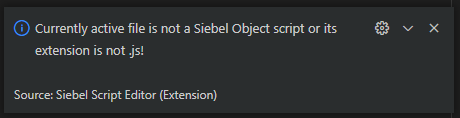
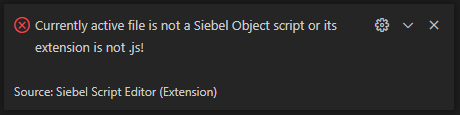
fix for checkpointed objects

diff --git a/src/getData.js b/src/getData.js
@@ -123,7 +123,21 @@ const getSiebelData = async (params, databaseConf, type, folder) => {
 	const bindedValues = { repo: params.repo, datestr: params.date || "1800-01-01" };
 	let queryStringSB = `SELECT ROW_ID, NAME FROM SIEBEL.${tablesAndIdColumns[type].table} WHERE CREATED > TO_DATE(:datestr, 'yyyy-mm-dd') AND REPOSITORY_ID=:repo`;
 	if (databaseConf.workspaces === WS_ENABLED) {
-		queryStringSB += ` AND WS_ID=:ws`;
+		queryStringSB = `WITH MAXVERSION
+										AS ( SELECT MAX (SC.WS_OBJ_VER) AS MAXVERSIONNR,
+										SC.WS_SRC_ID AS MAX_WS_SRC_ID
+										FROM SIEBEL.${tablesAndIdColumns[type].scriptTable} SC
+										GROUP BY SC.WS_SRC_ID)
+										SELECT OBJECT.ROW_ID, OBJECT.NAME
+										FROM MAXVERSION, SIEBEL.${tablesAndIdColumns[type].scriptTable} SRVSCRIPT, SIEBEL.${tablesAndIdColumns[type].table} OBJECT
+										WHERE SRVSCRIPT.WS_OBJ_VER=MAXVERSION.MAXVERSIONNR
+										AND SRVSCRIPT.WS_SRC_ID=MAXVERSION.MAX_WS_SRC_ID
+										AND SRVSCRIPT.${tablesAndIdColumns[type].idColumn}=OBJECT.ROW_ID
+										AND OBJECT.WS_ID=:ws
+										AND OBJECT.REPOSITORY_ID=:repo
+										AND OBJECT.CREATED > TO_DATE(:datestr, 'yyyy-mm-dd')
+										${params.scr ? `AND OBJECT.ROW_ID IN (SELECT ${tablesAndIdColumns[type].idColumn} FROM SIEBEL.${tablesAndIdColumns[type].scriptTable} WHERE SCRIPT IS NOT NULL)` : ""}
+										GROUP BY OBJECT.ROW_ID, OBJECT.NAME`
 		bindedValues.ws = params.ws;
 	} else if (databaseConf.workspaces === WS_NOT_IN_USE) {
 		queryStringSB += ` AND WS_ID IS NULL`;
@@ -132,10 +146,9 @@ const getSiebelData = async (params, databaseConf, type, folder) => {
 		queryStringSB += ` AND OBJ_LOCKED_BY=:userid`;
 		bindedValues.userid = databaseConf.safeModeUser;
 	}
-	if (params.scr === true) {
+	if (params.scr === true && databaseConf.workspaces !== WS_ENABLED) {
 		queryStringSB += ` AND ROW_ID IN (SELECT ${tablesAndIdColumns[type].idColumn} FROM SIEBEL.${tablesAndIdColumns[type].scriptTable} WHERE SCRIPT IS NOT NULL)`;
 	}
-
 	const bsdata = await dbQuery(queryStringSB, databaseConf, bindedValues);
 	bsdata && bsdata.rows && bsdata.rows.forEach((row) => {
 		exists = fs.existsSync(`${wsPath}/${folder}/${type}/${row.NAME}`);
@@ -154,11 +167,22 @@ const getSiebelData = async (params, databaseConf, type, folder) => {
 //get all scripts for siebel object
 const getServerScripts = async (params, databaseConf, type) => {
 	const scriptobj = {};
-	const bindedValues = { repo: params.repo, parentid: params[type].id };
+	let bindedValues = { repo: params.repo, parentid: params[type].id };
 	let queryStringSC = `SELECT ROW_ID, NAME, SCRIPT FROM SIEBEL.${tablesAndIdColumns[type].scriptTable} WHERE REPOSITORY_ID=:repo AND ${tablesAndIdColumns[type].idColumn}=:parentid`;
 	if (databaseConf.workspaces === WS_ENABLED) {
-		queryStringSC += ` AND WS_ID=:ws`;
-		bindedValues.ws = params.ws;
+		queryStringSC = `WITH MAXVERSION
+										AS ( SELECT MAX (SC.WS_OBJ_VER) AS MAXVERSIONNR,
+										SC.WS_SRC_ID AS MAX_WS_SRC_ID
+										FROM SIEBEL.${tablesAndIdColumns[type].scriptTable} SC
+										GROUP BY SC.WS_SRC_ID)
+										SELECT SRVSCRIPT.ROW_ID, SRVSCRIPT.NAME, SRVSCRIPT.SCRIPT
+										FROM MAXVERSION, SIEBEL.${tablesAndIdColumns[type].scriptTable} SRVSCRIPT, SIEBEL.${tablesAndIdColumns[type].table} OBJECT
+										WHERE SRVSCRIPT.WS_OBJ_VER=MAXVERSION.MAXVERSIONNR
+										AND SRVSCRIPT.WS_SRC_ID=MAXVERSION.MAX_WS_SRC_ID
+										AND SRVSCRIPT.${tablesAndIdColumns[type].idColumn}=OBJECT.ROW_ID
+										AND OBJECT.WS_ID=:ws
+										AND OBJECT.REPOSITORY_ID=:repo`
+		bindedValues = { repo: params.repo, ws: params.ws };
 	} else if (databaseConf.workspaces === WS_NOT_IN_USE) {
 		queryStringSC += ` AND WS_ID IS NULL`;
 	}
@@ -172,15 +196,27 @@ const getServerScriptsNames = async (params, databaseConf, type, folderObj) => {
 	const wsPath = vscode.workspace.workspaceFolders[0].uri.fsPath;
 	const folderPath = `${folderObj.db}_${folderObj.repo}/${folderObj.ws}/${type}`;
 	const scriptobj = {};
-	const bindedValues = { repo: params.repo, parentid: params[type].id };
+	let bindedValues = { repo: params.repo, parentid: params[type].id };
 	let queryStringSC = `SELECT ROW_ID, NAME FROM SIEBEL.${tablesAndIdColumns[type].scriptTable} WHERE REPOSITORY_ID=:repo AND ${tablesAndIdColumns[type].idColumn}=:parentid`;
 	if (databaseConf.workspaces === WS_ENABLED) {
-		queryStringSC += ` AND WS_ID=:ws`;
-		bindedValues.ws = params.ws;
+		queryStringSC = `WITH MAXVERSION
+										AS ( SELECT MAX (SC.WS_OBJ_VER) AS MAXVERSIONNR,
+										SC.WS_SRC_ID AS MAX_WS_SRC_ID
+										FROM SIEBEL.${tablesAndIdColumns[type].scriptTable} SC
+										GROUP BY SC.WS_SRC_ID)
+										SELECT SRVSCRIPT.ROW_ID, SRVSCRIPT.NAME
+										FROM MAXVERSION, SIEBEL.${tablesAndIdColumns[type].scriptTable} SRVSCRIPT, SIEBEL.${tablesAndIdColumns[type].table} OBJECT
+										WHERE SRVSCRIPT.WS_OBJ_VER=MAXVERSION.MAXVERSIONNR
+										AND SRVSCRIPT.WS_SRC_ID=MAXVERSION.MAX_WS_SRC_ID
+										AND SRVSCRIPT.${tablesAndIdColumns[type].idColumn}=OBJECT.ROW_ID
+										AND OBJECT.WS_ID=:ws
+										AND OBJECT.REPOSITORY_ID=:repo`
+		bindedValues = { repo: params.repo, ws: params.ws };
 	} else if (databaseConf.workspaces === WS_NOT_IN_USE) {
 		queryStringSC += ` AND WS_ID IS NULL`;
 	}
 	const scdata = await dbQuery(queryStringSC, databaseConf, bindedValues);
+	console.log(scdata)
 	scdata && scdata.rows && scdata.rows.forEach((row) => {
 		scriptobj[row.NAME] = {
 			id: row.ROW_ID,
@@ -192,7 +228,7 @@ const getServerScriptsNames = async (params, databaseConf, type, folderObj) => {
 
 //get selected method for siebel object
 const getServerScriptMethod = async (params, databaseConf, type) => {
-	const bindedValues = { repo: params.repo, parentid: params[type].id, methodid: params[type].childId };
+	let bindedValues = { repo: params.repo, parentid: params[type].id, methodid: params[type].childId };
 	let queryStringSC = `SELECT SCRIPT FROM SIEBEL.${tablesAndIdColumns[type].scriptTable} WHERE REPOSITORY_ID=:repo AND ${tablesAndIdColumns[type].idColumn}=:parentid AND ROW_ID=:methodid`;
 	if (databaseConf.workspaces === WS_ENABLED) {
 		queryStringSC += ` AND WS_ID=:ws`;
@@ -227,31 +263,40 @@ const createBackup = async (params, databaseConf, type, backupFolder) => {
 const pushOrPullScript = async (action, databaseObj) => {
 	let currentlyOpenTabfilePath = vscode.window.activeTextEditor?.document.uri.fsPath;
 	if (path.basename(currentlyOpenTabfilePath).endsWith(".js") === false) {
-		vscode.window.showInformationMessage("Currently active file is not a Siebel Object script or its extension is not .js!");
+		vscode.window.showErrorMessage("Currently active file is not a Siebel Object script or its extension is not .js!");
 		return;
 	}
 	let scrName = path.basename(currentlyOpenTabfilePath, ".js");
 	let dirPath = path.dirname(currentlyOpenTabfilePath);
 	let infoFilePath = vscode.Uri.file(`${dirPath}/info.json`);
 	if (fs.existsSync(infoFilePath.fsPath) === false) {
-		vscode.window.showInformationMessage("File info.json was not found, please get the Siebel Object again from the extension!");
+		vscode.window.showErrorMessage("File info.json was not found, please get the Siebel Object again from the extension!");
 		return;
 	}
 	let readData = await vscode.workspace.fs.readFile(infoFilePath);
 	let scrFilePath = vscode.Uri.file(`${dirPath}/${scrName}.js`);
 	let infoObj = JSON.parse(Buffer.from(readData));
 	if (infoObj.scripts.hasOwnProperty(scrName) === false) {
-		vscode.window.showInformationMessage("Script was not found in info.json, please get the Siebel Object script again from the extension or check for accidental renaming!");
+		vscode.window.showErrorMessage("Script was not found in info.json, please get the Siebel Object script again from the extension or check for accidental renaming!");
 		return;
 	}
 	switch (action) {
 		case "pull": {
-			const bindedValues = { repo: infoObj.repo.id, parentid: infoObj.siebelObject.id, methodid: infoObj.scripts[scrName].id };
-			let queryStringSC = `SELECT SCRIPT FROM SIEBEL.${tablesAndIdColumns[infoObj.type].scriptTable} WHERE REPOSITORY_ID=:repo AND ${tablesAndIdColumns[infoObj.type].idColumn}=:parentid AND ROW_ID=:methodid`;
+			const bindedValues = { repo: infoObj.repo.id, methodid: infoObj.scripts[scrName].id };
+			let queryStringSC = `SELECT SCRIPT FROM SIEBEL.${tablesAndIdColumns[infoObj.type].scriptTable} WHERE REPOSITORY_ID=:repo AND ROW_ID=:methodid`;
 			if (databaseObj[infoObj.db].workspaces === WS_ENABLED) {
-				queryStringSC += ` AND WS_ID=:ws`;
-				bindedValues.ws = infoObj.ws.id;
-			} else if (databaseObj[infoObj.db].workspaces === WS_NOT_IN_USE) {
+				const getWSSourceIdString = `SELECT WS_SRC_ID FROM SIEBEL.${tablesAndIdColumns[infoObj.type].scriptTable} WHERE ROW_ID=:methodid`;
+				const methodidobj = { methodid: infoObj.scripts[scrName].id };
+				const getWSSourceId = await dbQuery(getWSSourceIdString, databaseObj[infoObj.db], methodidobj);
+				const wssrcidobj = { wssrcid: getWSSourceId.rows[0]?.WS_SRC_ID };
+				const checkWSVersionString = `SELECT ROW_ID FROM SIEBEL.${tablesAndIdColumns[infoObj.type].scriptTable} WHERE WS_SRC_ID=:wssrcid ORDER BY WS_OBJ_VER DESC`;
+				const checkWSVersion = await dbQuery(checkWSVersionString, databaseObj[infoObj.db], wssrcidobj);
+				if (checkWSVersion.rows[0]?.ROW_ID !== infoObj.scripts[scrName].id) {
+					bindedValues.methodid = checkWSVersion.rows[0]?.ROW_ID;
+					infoObj.scripts[scrName]["id"] = checkWSVersion.rows[0]?.ROW_ID;
+				}
+			}
+			if (databaseObj[infoObj.db].workspaces === WS_NOT_IN_USE) {
 				queryStringSC += ` AND WS_ID IS NULL`
 			}
 			const scdata = await dbQuery(queryStringSC, databaseObj[infoObj.db], bindedValues);
@@ -274,11 +319,23 @@ const pushOrPullScript = async (action, databaseObj) => {
 					return;
 				}
 			}
+			if (databaseObj[infoObj.db].workspaces === WS_ENABLED) {
+				const getWSSourceIdString = `SELECT WS_SRC_ID FROM SIEBEL.${tablesAndIdColumns[infoObj.type].scriptTable} WHERE ROW_ID=:methodid`;
+				const methodidobj = { methodid: infoObj.scripts[scrName].id };
+				const getWSSourceId = await dbQuery(getWSSourceIdString, databaseObj[infoObj.db], methodidobj);
+				const wssrcidobj = { wssrcid: getWSSourceId.rows[0]?.WS_SRC_ID };
+				const checkWSVersionString = `SELECT ROW_ID FROM SIEBEL.${tablesAndIdColumns[infoObj.type].scriptTable} WHERE WS_SRC_ID=:wssrcid ORDER BY WS_OBJ_VER DESC`;
+				const checkWSVersion = await dbQuery(checkWSVersionString, databaseObj[infoObj.db], wssrcidobj);
+				if (checkWSVersion.rows[0]?.ROW_ID !== infoObj.scripts[scrName].id) {
+					vscode.window.showErrorMessage("Unable to push script to database, because workspace has been checkpointed and there is a newer version of this script in the database, please refresh it with the pull button!");
+					return;
+				}
+			}
 			const commit = true;
 			const scrDataRead = await vscode.workspace.fs.readFile(scrFilePath);
 			const scrText = Buffer.from(scrDataRead).toString();
-			const bindedValues = { repo: infoObj.repo.id, parentid: infoObj.siebelObject.id, methodid: infoObj.scripts[scrName].id, script: scrText };
-			let updateStringSC = `UPDATE SIEBEL.${tablesAndIdColumns[infoObj.type].scriptTable} SET SCRIPT=:script, LAST_UPD=CURRENT_TIMESTAMP WHERE REPOSITORY_ID=:repo AND ${tablesAndIdColumns[infoObj.type].idColumn}=:parentid AND ROW_ID=:methodid`;
+			const bindedValues = { repo: infoObj.repo.id, methodid: infoObj.scripts[scrName].id, script: scrText };
+			let updateStringSC = `UPDATE SIEBEL.${tablesAndIdColumns[infoObj.type].scriptTable} SET SCRIPT=:script, LAST_UPD=CURRENT_TIMESTAMP WHERE REPOSITORY_ID=:repo AND ROW_ID=:methodid`;
 			if (databaseObj[infoObj.db].workspaces === WS_ENABLED) {
 				updateStringSC += ` AND WS_ID=:ws`;
 				bindedValues.ws = infoObj.ws.id;

diff --git a/extension.js b/extension.js
@@ -81,7 +81,7 @@ async function activate(context) {
 		const configObj = configData.DBConnection;
 		const defaultObj = configData.default
 		const firstDB = Object.keys(configData.DBConnection)[0];
-		const selected = { date: "", scr: "", db: defaultObj.db || firstDB, ws: "", repo: "", service: { id: "", name: "", childId: "" }, buscomp: { id: "", name: "", childId: "" }, applet: { id: "", name: "", childId: "" }, application: { id: "", name: "", childId: "" } };
+		const selected = { date: "", scr: "", db: defaultObj.db || firstDB, ws: "", repo: "", service: { id: "", name: "", wssrcid: "", childId: "" }, buscomp: { id: "", name: "", childId: "" }, applet: { id: "", name: "", childId: "" }, application: { id: "", name: "", childId: "" } };
 		const folders = { db: selected.db, repo: "", ws: "" };
 		const folderPath = () => `${folders.db}_${folders.repo}/${folders.ws}`;
 		const dbRepoWS = { db: "", repo: "", ws: "" }

diff --git a/documentation.md b/documentation.md
@@ -117,6 +117,10 @@ And the info.json will be updated as well:
 
 ![infoup](/features/documentation/infoup.PNG)
 
+__IMPORTANT__: In workspace enabled Siebel versions, editing server scripts and then checkpointing the workspace, and subsequently editing already edited scripts in Siebel (web)tools will create new versions from them, which will not be the same as the ones edited in the extension. In that case, if a newer version of a script exists, the extension will detect it, and will not let pushing it to the database. The scripts should be refreshed from the extension, either with the pull button, or from the the tree view. Only the newest version of server scripts is possible to get and edit with the extension in the database.
+
+![badversion](/features/documentation/badversion.PNG)
+
 Possible errors when pushing scripts to the database:
 
 ![perr1](/features/documentation/perr1.PNG)
